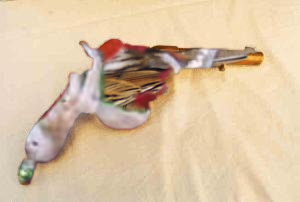
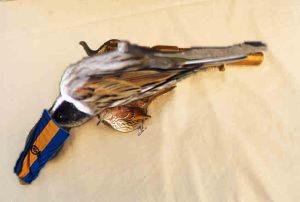
Refresh examples from the 18-composition run; add a step sheet to the README
Regenerated with the containment gate and the free-area size gate in place, so
the objects sit inside the outline they were matched to without being trimmed
to it. Adds the step sheet showing each object as it lands, since the finished
picture hides the order things arrived in.

Claude-Session: https://claude.ai/code/session_013R8VdeUMpZdjrCEY2TJnYo

Changed region(s): [[0.03, 0.1782, 0.9, 0.9208]]

diff --git a/README.md b/README.md
@@ -9,10 +9,16 @@ the canvas's contours and the best-fitting one is composited on top — whole, n
 cut to the outline underneath. Objects run past the edge they were matched to,
 and that overhang is the point: the subject still reads, but the seams show.
 
-It does not have to be an animal. A revolver built from a tree sparrow, a
-guitar whose body is a stop sign, a Windsor chair striped out of a bulldog:
+It does not have to be an animal. A revolver built from a tree sparrow, a pair
+of scissors turned into a revolver, a Windsor chair striped out of a horse:
 
-![Twelve objects rebuilt from other objects](examples/gallery.png)
+![Eighteen objects rebuilt from other objects](examples/gallery.png)
+
+`make_gallery.py` also writes step sheets, one row per composition and one
+column per object as it lands — the finished picture hides the order things
+arrived in:
+
+![Each object as it lands](examples/steps.png)
 
 ## Install
 
